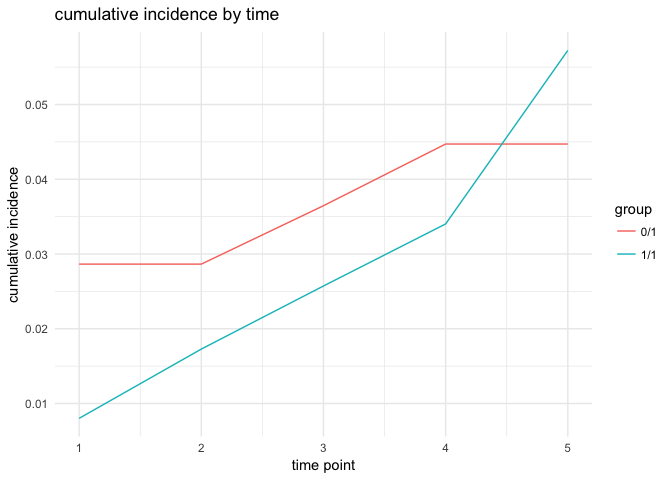
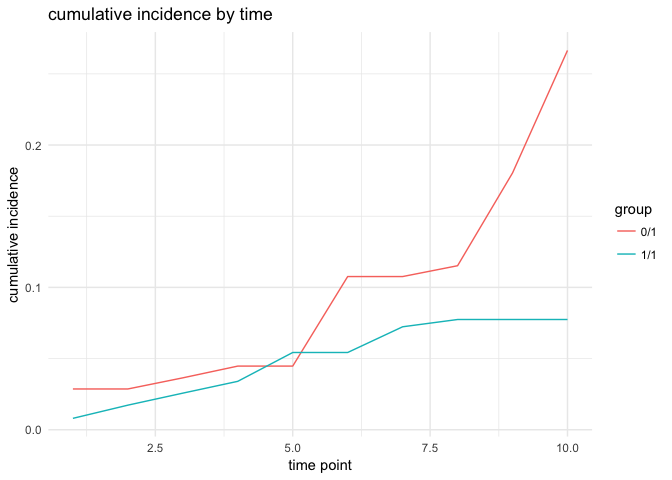
improve example slightly

diff --git a/README.md b/README.md
@@ -48,7 +48,7 @@ set.seed(341796)
 
 # simulate data
 n <- 100
-t_0 <- 5
+t_0 <- 10
 W <- data.frame(W1 = runif(n), W2 = rbinom(n, 1, 0.5))
 A <- rbinom(n, 1, 0.5)
 T <- rgeom(n,plogis(-4 + W$W1 * W$W2 - A)) + 1
@@ -63,31 +63,36 @@ fit <- survtmle(ftime = ftime, ftype = ftype,
                 verbose = TRUE,  t0 = t_0, maxIter = 2)
 #> Warning in checkInputs(ftime = ftime, ftype = ftype, trt = trt, t0 = t0, :
 #> glm.trt and SL.trt not specified. Proceeding with glm.trt = '1'
-#> TMLE Iteration  1   :  -3e-04 0
+#> TMLE Iteration  1   :  -9e-04 1e-04
 
 # quick look at the output object
 fit
 #> $est
 #>           [,1]
-#> 0 1 0.04075620
-#> 1 1 0.05723282
+#> 0 1 0.26644929
+#> 1 1 0.07278289
 #> 
 #> $var
-#>               0 1           1 1
-#> 0 1  4.461611e-04 -4.934060e-06
-#> 1 1 -4.934060e-06  6.117357e-04
+#>              0 1          1 1
+#> 0 1 3.122931e-03 3.927201e-05
+#> 1 1 3.927201e-05 9.578375e-04
 
 # extract cumulative incidence at each time point
 tpfit <- timepoints(fit, times = seq_len(t_0))
 #> TMLE Iteration  1   :  0 0 
 #> TMLE Iteration  1   :  -3e-04 0 
-#> TMLE Iteration  1   :  -6e-04 0
+#> TMLE Iteration  1   :  -6e-04 0 
+#> TMLE Iteration  1   :  -3e-04 0 
+#> TMLE Iteration  1   :  -0.0017 0 
+#> TMLE Iteration  1   :  -9e-04 -2e-04 
+#> TMLE Iteration  1   :  -5e-04 -2e-04 
+#> TMLE Iteration  1   :  -0.0017 -1e-04
 
 # examine plot of cumulative incidences
 plot(tpfit, t0 = t_0, type = "smooth")
 ```
 
-![](README-example-1.png)
+<img src="README-example-1.png" style="display: block; margin: auto;" />
 
 ------------------------------------------------------------------------
 
